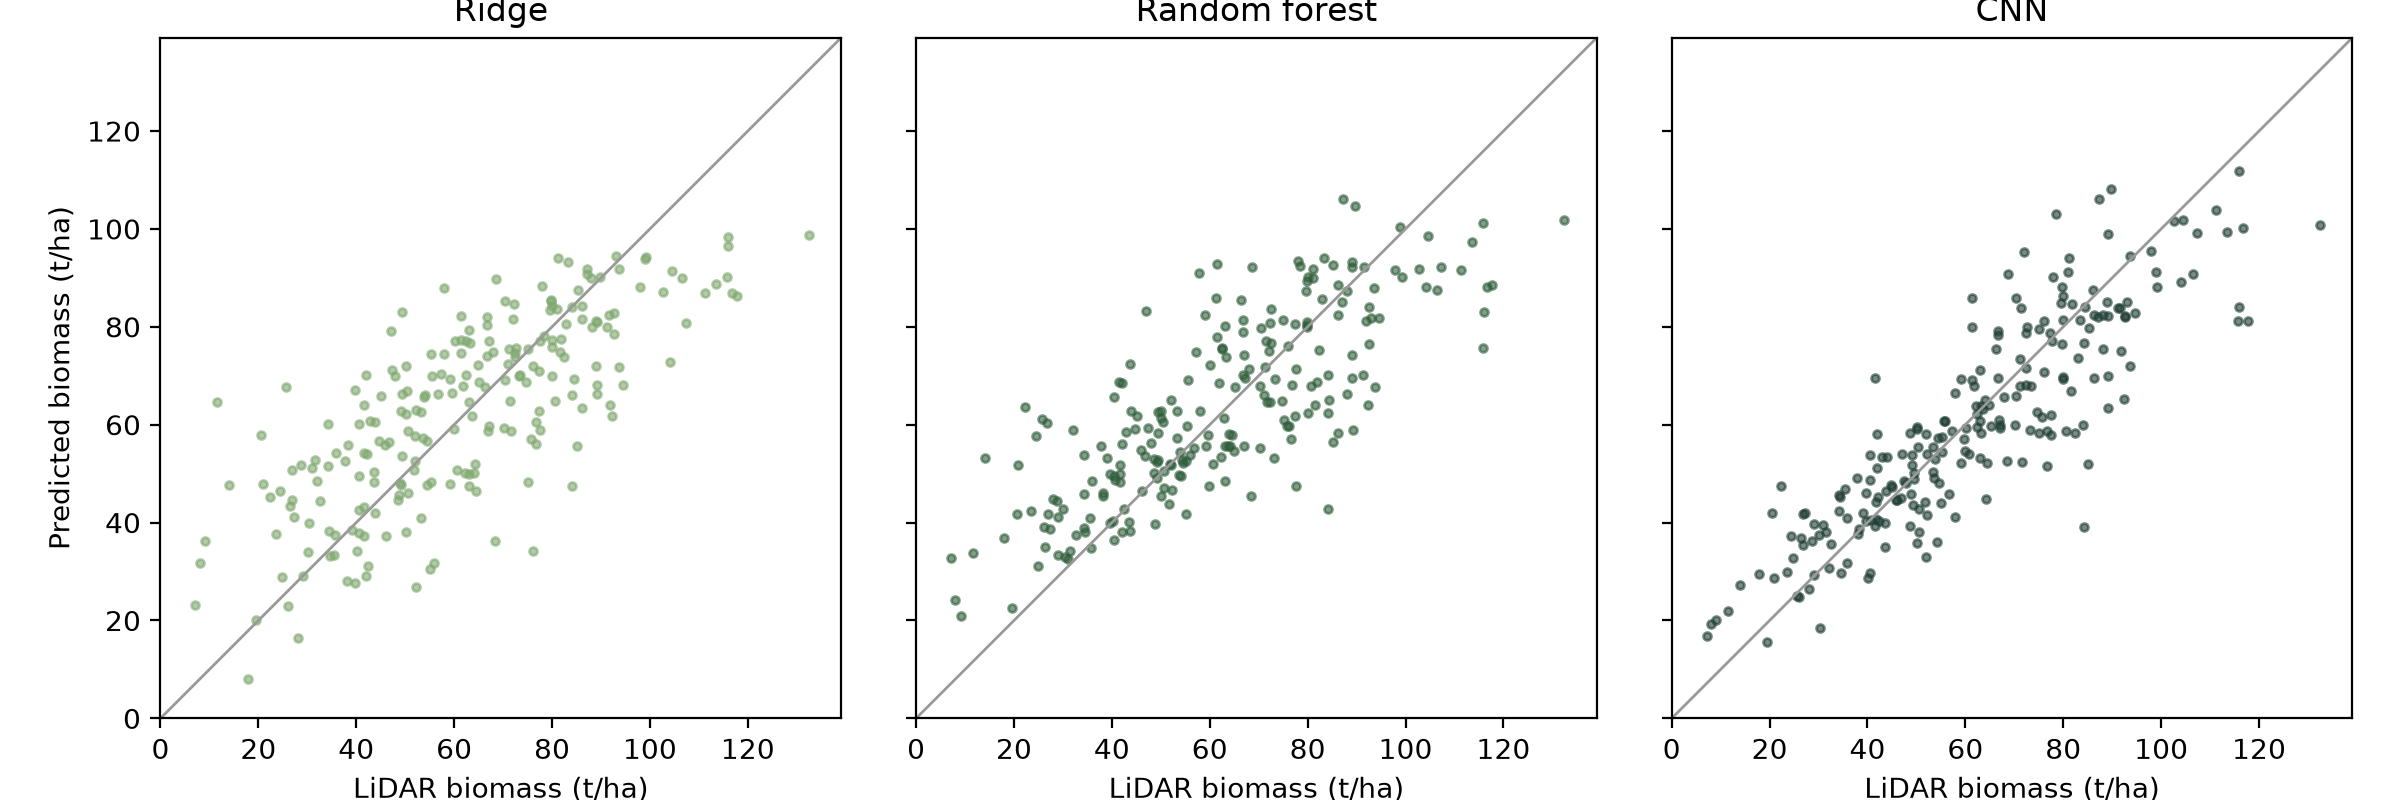
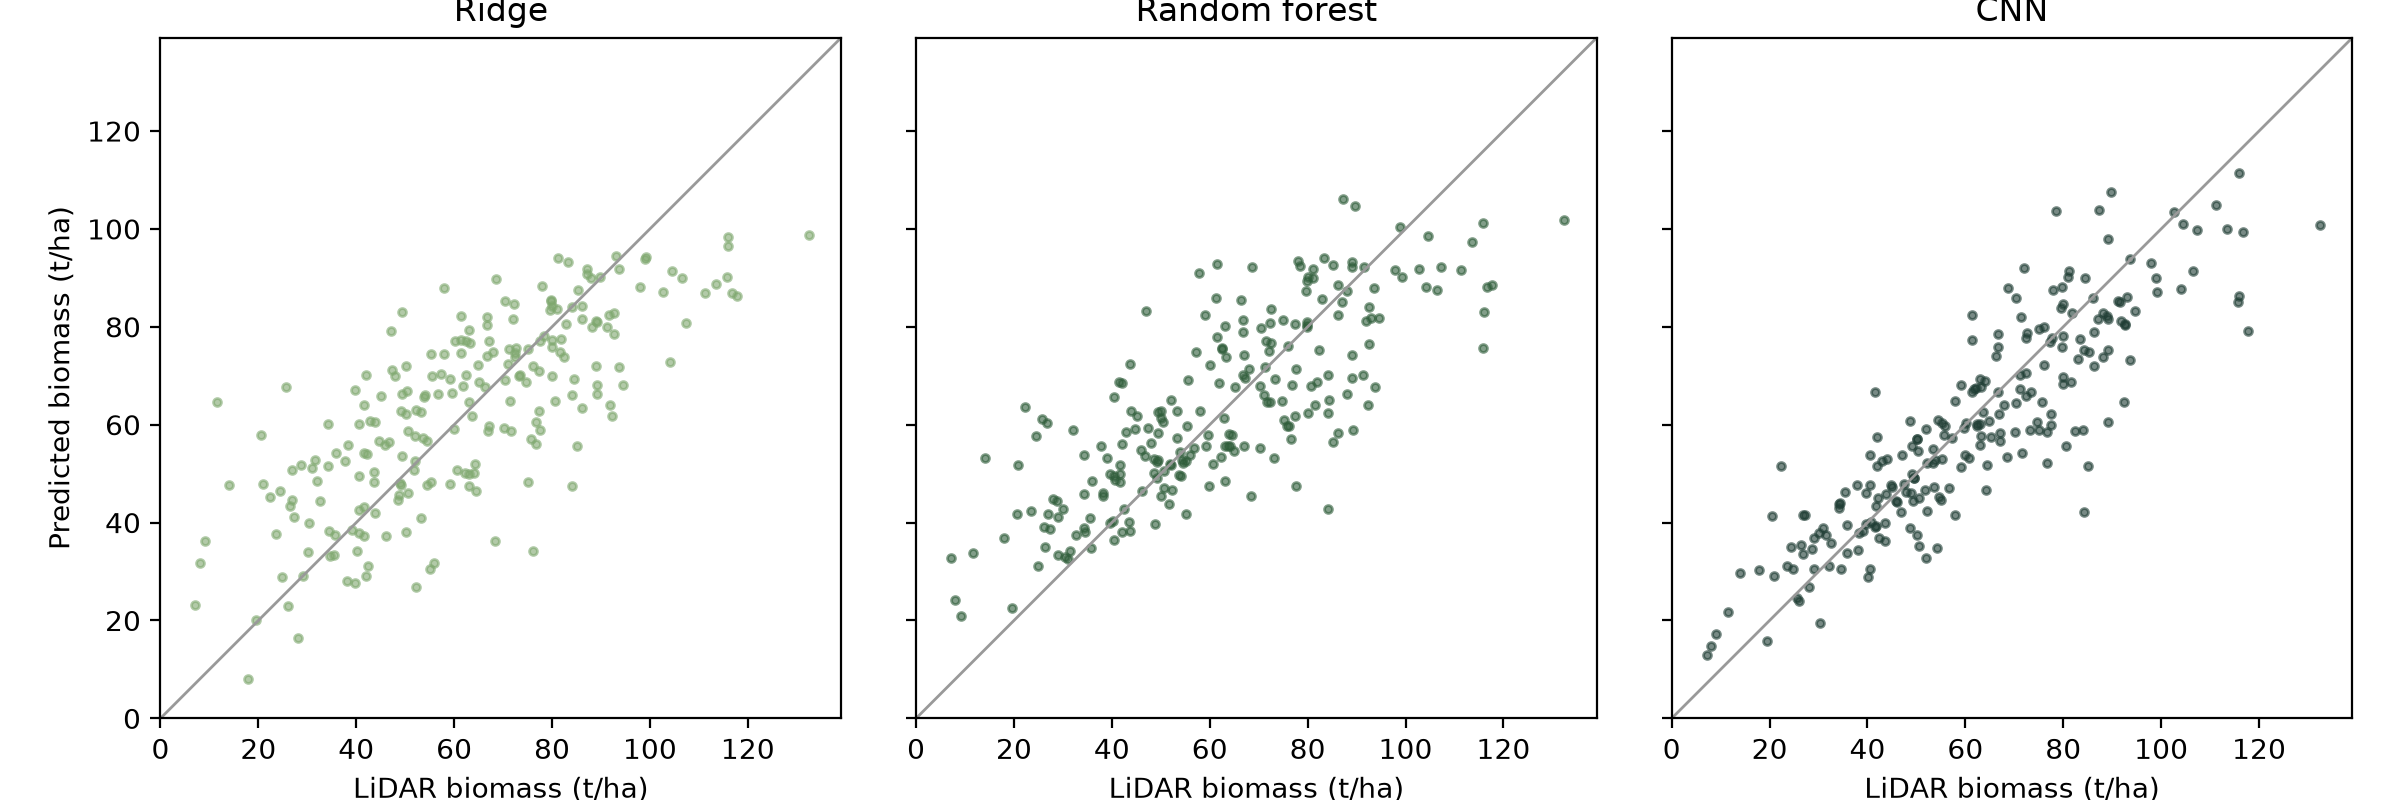
Train the CNN longer: 100-epoch cap, patience 10
Stops at epoch 42 with the best weights from epoch 32; test RMSE goes
from 12.1 to 11.7 t/ha, R2 0.76 to 0.77.

Changed region(s): [[0.7188, 0.3125, 0.9375, 0.75], [0.9062, 0.25, 0.9375, 0.3125], [0.6875, 0.7812, 0.7188, 0.8125]]

diff --git a/biomass/models.py b/biomass/models.py
@@ -20,7 +20,7 @@ from biomass.load import load_patches
 from biomass.split import load_split
 
 RIDGE_ALPHAS = (0.01, 0.1, 1, 10, 100, 1000)
-MAX_EPOCHS = 30
+MAX_EPOCHS = 100
 
 
 def fit_ridge(Xtr: pd.DataFrame, ytr: np.ndarray, Xva: pd.DataFrame, yva: np.ndarray) -> tuple[object, dict]:
@@ -59,7 +59,7 @@ def fit_cnn(Xtr: np.ndarray, ytr: np.ndarray, Xva: np.ndarray, yva: np.ndarray, 
     keras.utils.set_random_seed(seed)
     mu, sd = float(ytr.mean()), float(ytr.std())
     model = build_cnn(Xtr)
-    stop = keras.callbacks.EarlyStopping(monitor="val_mae", patience=6, restore_best_weights=True)
+    stop = keras.callbacks.EarlyStopping(monitor="val_mae", patience=10, restore_best_weights=True)
     hist = model.fit(Xtr, (ytr - mu) / sd, validation_data=(Xva, (yva - mu) / sd), epochs=MAX_EPOCHS,
                      batch_size=32, callbacks=[stop], verbose=2)
     epochs = len(hist.history["loss"])
